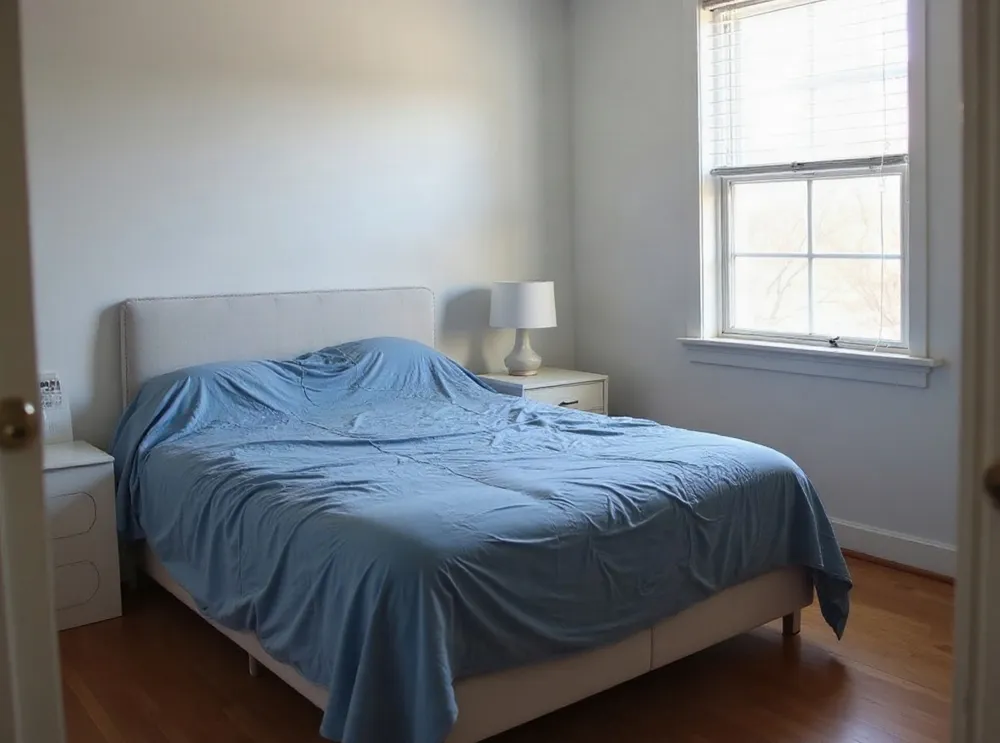
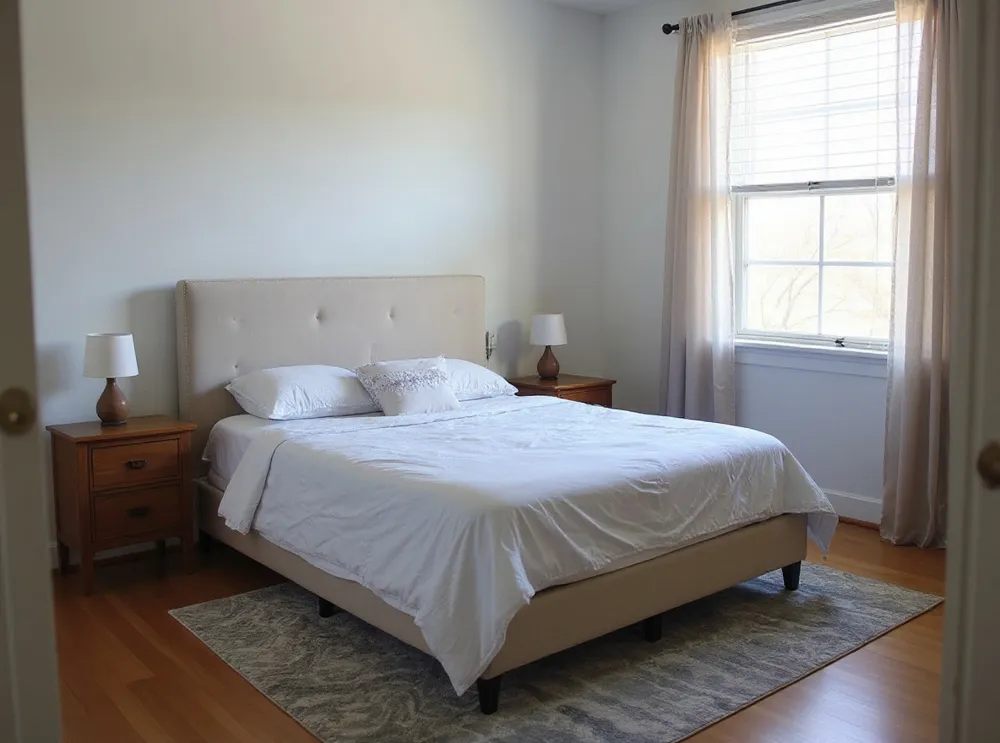
Make room changes bolder and keep the TV
Regenerate the examples with new layouts and clearly different
furniture, and tell the planner to keep useful items like a TV.

diff --git a/public/app/examples.js b/public/app/examples.js
@@ -5,13 +5,22 @@ export const EXAMPLES = [
     "title": "Living room",
     "pins": [
       {
+        "name": "Sofa",
+        "title": "Best Selling Home Decor Jason 72.25-in W Midcentury Gray 3-seater Sofa",
+        "store": "Lowe's",
+        "price": "$519.87",
+        "url": "https://www.lowes.com/pd/Best-Selling-Home-Decor-Jason-Mid-Century-Modern-Tufted-Fabric-Sofa-Gray/5000264387",
+        "x": 78,
+        "y": 72
+      },
+      {
         "name": "Area rug",
         "title": "George Oliver Diana Geometric Gray & Cream Indoor / Outdoor Area Rug 5x7 - ( 5'3'' x 7'3'' )",
         "store": "Wayfair",
         "price": "$91.99",
         "url": "https://www.wayfair.com/rugs/pdp/george-oliver-diana-geometric-gray-cream-indoor-outdoor-area-rug-5x7-53-x-73-w112908820.html",
-        "x": 42,
-        "y": 83
+        "x": 46,
+        "y": 80
       },
       {
         "name": "Floor lamp",
@@ -19,8 +28,8 @@ export const EXAMPLES = [
         "store": "The Home Depot",
         "price": "$35.99",
         "url": "https://www.homedepot.com/p/SUNMORY-62in-Black-Arc-Floor-Lamp-Modern-Floor-Lamp-with-9W-3-Color-Tempe-Bulb-Metal-Standing-w-Adjustable-Hanging-Lampshade-MF18166A-BK/338778659",
-        "x": 31,
-        "y": 30
+        "x": 69,
+        "y": 34
       },
       {
         "name": "Wall art",
@@ -28,7 +37,7 @@ export const EXAMPLES = [
         "store": "Home Depot",
         "price": "$109.99",
         "url": "https://www.homedepot.com/p/Kate-and-Laurel-2-Piece-Sylvie-Rhythmic-Lines-I-and-II-by-Nikita-Jariwala-Abstract-Framed-Art-Print-Set-24-in-x-18-in-10197047/341049030",
-        "x": 87,
+        "x": 89,
         "y": 27
       }
     ]
@@ -43,7 +52,7 @@ export const EXAMPLES = [
         "store": "Home Depot",
         "price": "$453.99",
         "url": "https://www.homedepot.com/p/Qualler-Beige-Wood-Frame-Queen-Size-Upholstered-Platform-Bed-with-Hydraulic-Storage-System-FSLFPB552A/340727055",
-        "x": 27,
+        "x": 34,
         "y": 42
       },
       {
@@ -52,8 +61,8 @@ export const EXAMPLES = [
         "store": "Wayfair",
         "price": "$51.99",
         "url": "https://www.wayfair.com/lighting/pdp/beachcrest-home-melbourne-beach-27-table-lamp-seho2691.html",
-        "x": 52,
-        "y": 38
+        "x": 54,
+        "y": 45
       },
       {
         "name": "Nightstand",
@@ -61,8 +70,17 @@ export const EXAMPLES = [
         "store": "Wayfair",
         "price": "$359.99",
         "url": "https://www.wayfair.com/furniture/pdp/latitude-run-modern-drawer-nightstand-curved-design-with-optimal-storage-balance-w115839756.html",
-        "x": 54,
-        "y": 55
+        "x": 57,
+        "y": 53
+      },
+      {
+        "name": "Duvet set",
+        "title": "West Elm European Flax Linen Duvet Cover Full/Queen & Two Standard Shams ~ White",
+        "store": "Amazon",
+        "price": "$279.00",
+        "url": "https://www.amazon.com/West-Elm-European-Linen-Standard/dp/B09BGPLLH5",
+        "x": 50,
+        "y": 70
       }
     ]
   },
@@ -76,8 +94,8 @@ export const EXAMPLES = [
         "store": "Home Depot",
         "price": "$133.38",
         "url": "https://www.homedepot.com/p/AFI-48-in-Rectangular-Walnut-Writing-Desk-with-Solid-Wood-Material-AH11104/304854892",
-        "x": 56,
-        "y": 66
+        "x": 56.41,
+        "y": 66.86
       },
       {
         "name": "Bookshelf",
@@ -85,8 +103,8 @@ export const EXAMPLES = [
         "store": "Wayfair",
         "price": "$119.99",
         "url": "https://www.wayfair.com/furniture/pdp/union-rustic-kiwako-683-tall-bookshelf-w009706621.html",
-        "x": 84,
-        "y": 50
+        "x": 86.08,
+        "y": 50.84
       }
     ]
   }
